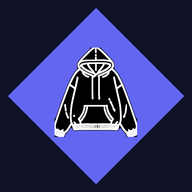
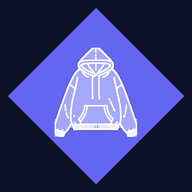
アイコンの服の中を、前のアイコンの内側の色（薄紫）にする
黒ではなく、前のアイコンのひし形の内側の色(165,168,250)を、不透明で塗る。外側のひし形(99,102,241)・地・白い線は、そのまま。
キャッシュ用の印は ?v=7。

Changed region(s): [[0.2812, 0.25, 0.7188, 0.7188]]

diff --git a/index.html b/index.html
@@ -8,7 +8,7 @@
     <meta name="robots" content="noindex, nofollow">
     <title>ARELM</title>
     <link rel="stylesheet" href="css/style.css">
-    <link rel="manifest" href="manifest.json?v=6">
+    <link rel="manifest" href="manifest.json?v=7">
     <meta name="theme-color" content="#0f172a">
 
     <!-- iOS（iPhone・iPad）でホーム画面に追加したときの設定 -->
@@ -16,9 +16,9 @@
     <meta name="apple-mobile-web-app-status-bar-style" content="black-translucent">
     <meta name="apple-mobile-web-app-title" content="ARELM">
     <!-- アイコンはMacのアプリと同じ絵、名前は「ARELM」に、全端末で揃える。?v= は、各端末が古いアイコンを使い続けないため -->
-    <link rel="apple-touch-icon" sizes="180x180" href="images/apple-touch-icon.png?v=6">
-    <link rel="apple-touch-icon" sizes="512x512" href="images/icon-512x512.png?v=6">
-    <link rel="icon" type="image/png" sizes="192x192" href="images/icon-any-192x192.png?v=6">
+    <link rel="apple-touch-icon" sizes="180x180" href="images/apple-touch-icon.png?v=7">
+    <link rel="apple-touch-icon" sizes="512x512" href="images/icon-512x512.png?v=7">
+    <link rel="icon" type="image/png" sizes="192x192" href="images/icon-any-192x192.png?v=7">
 </head>
 <body>
     <div id="login-screen" class="login-screen">
